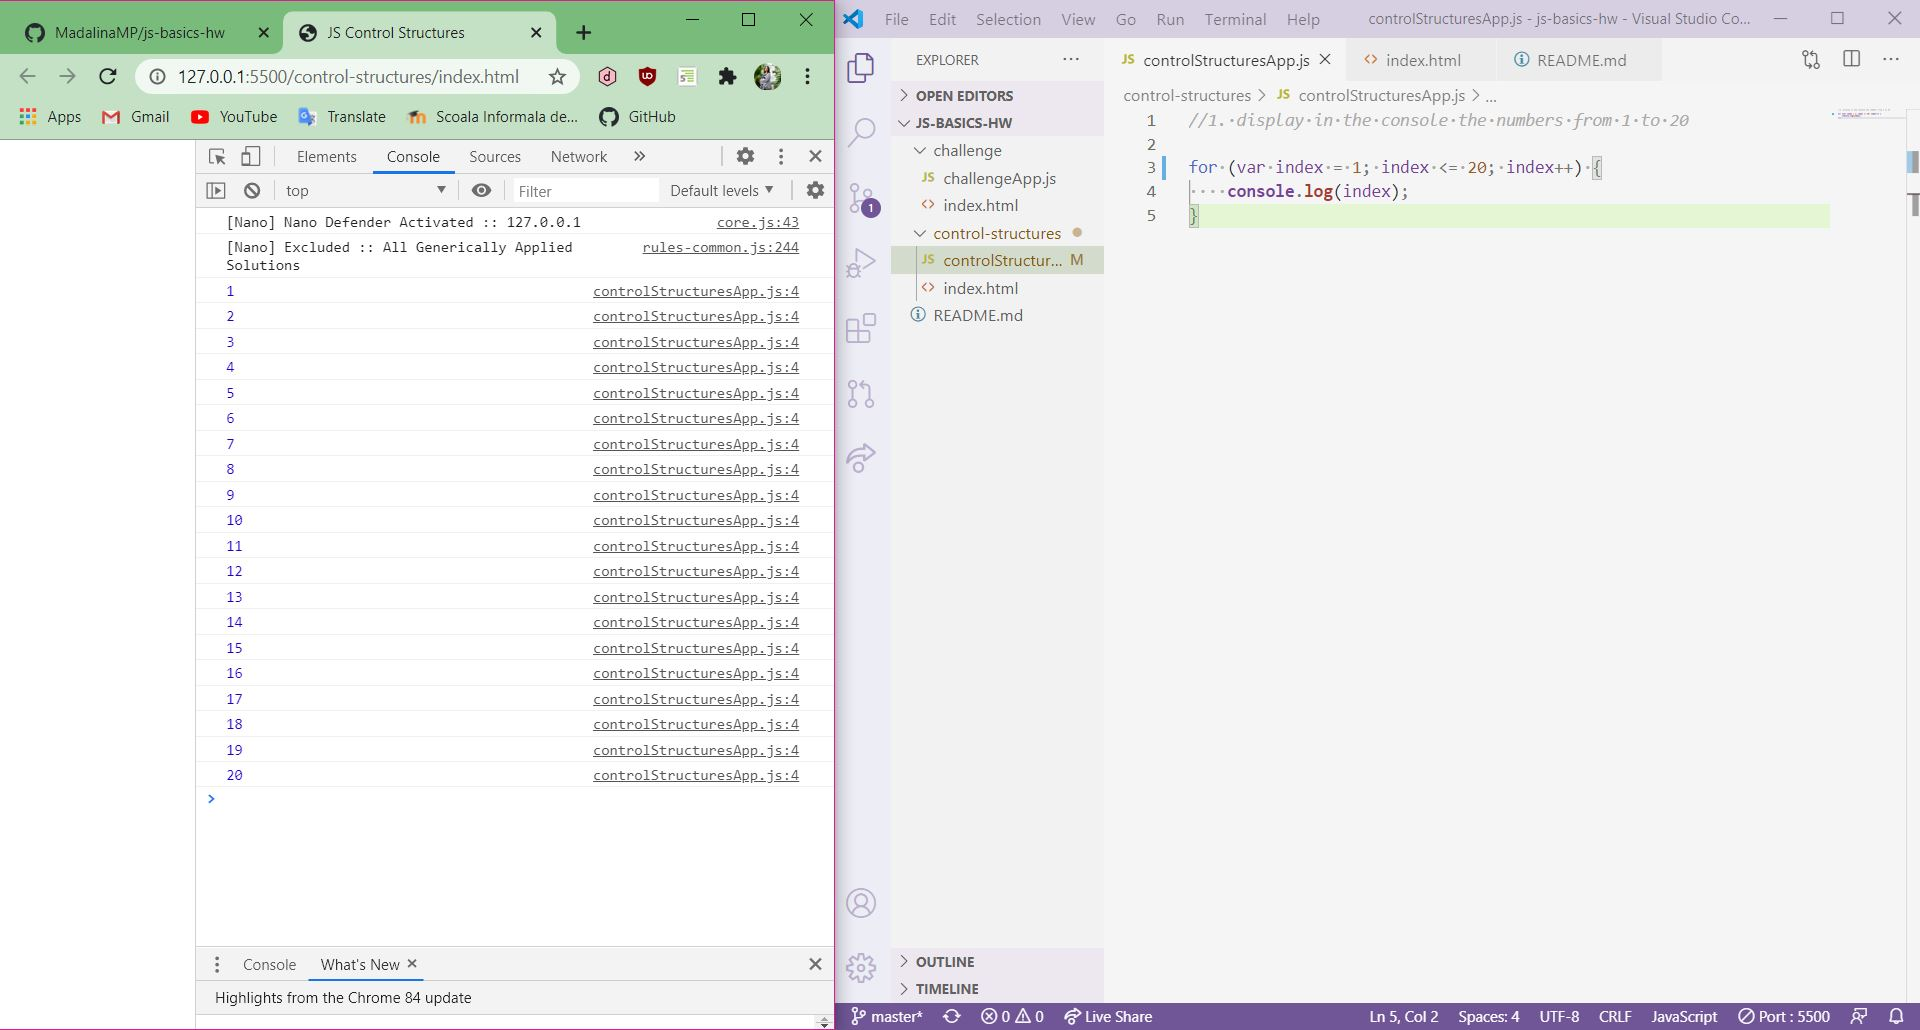
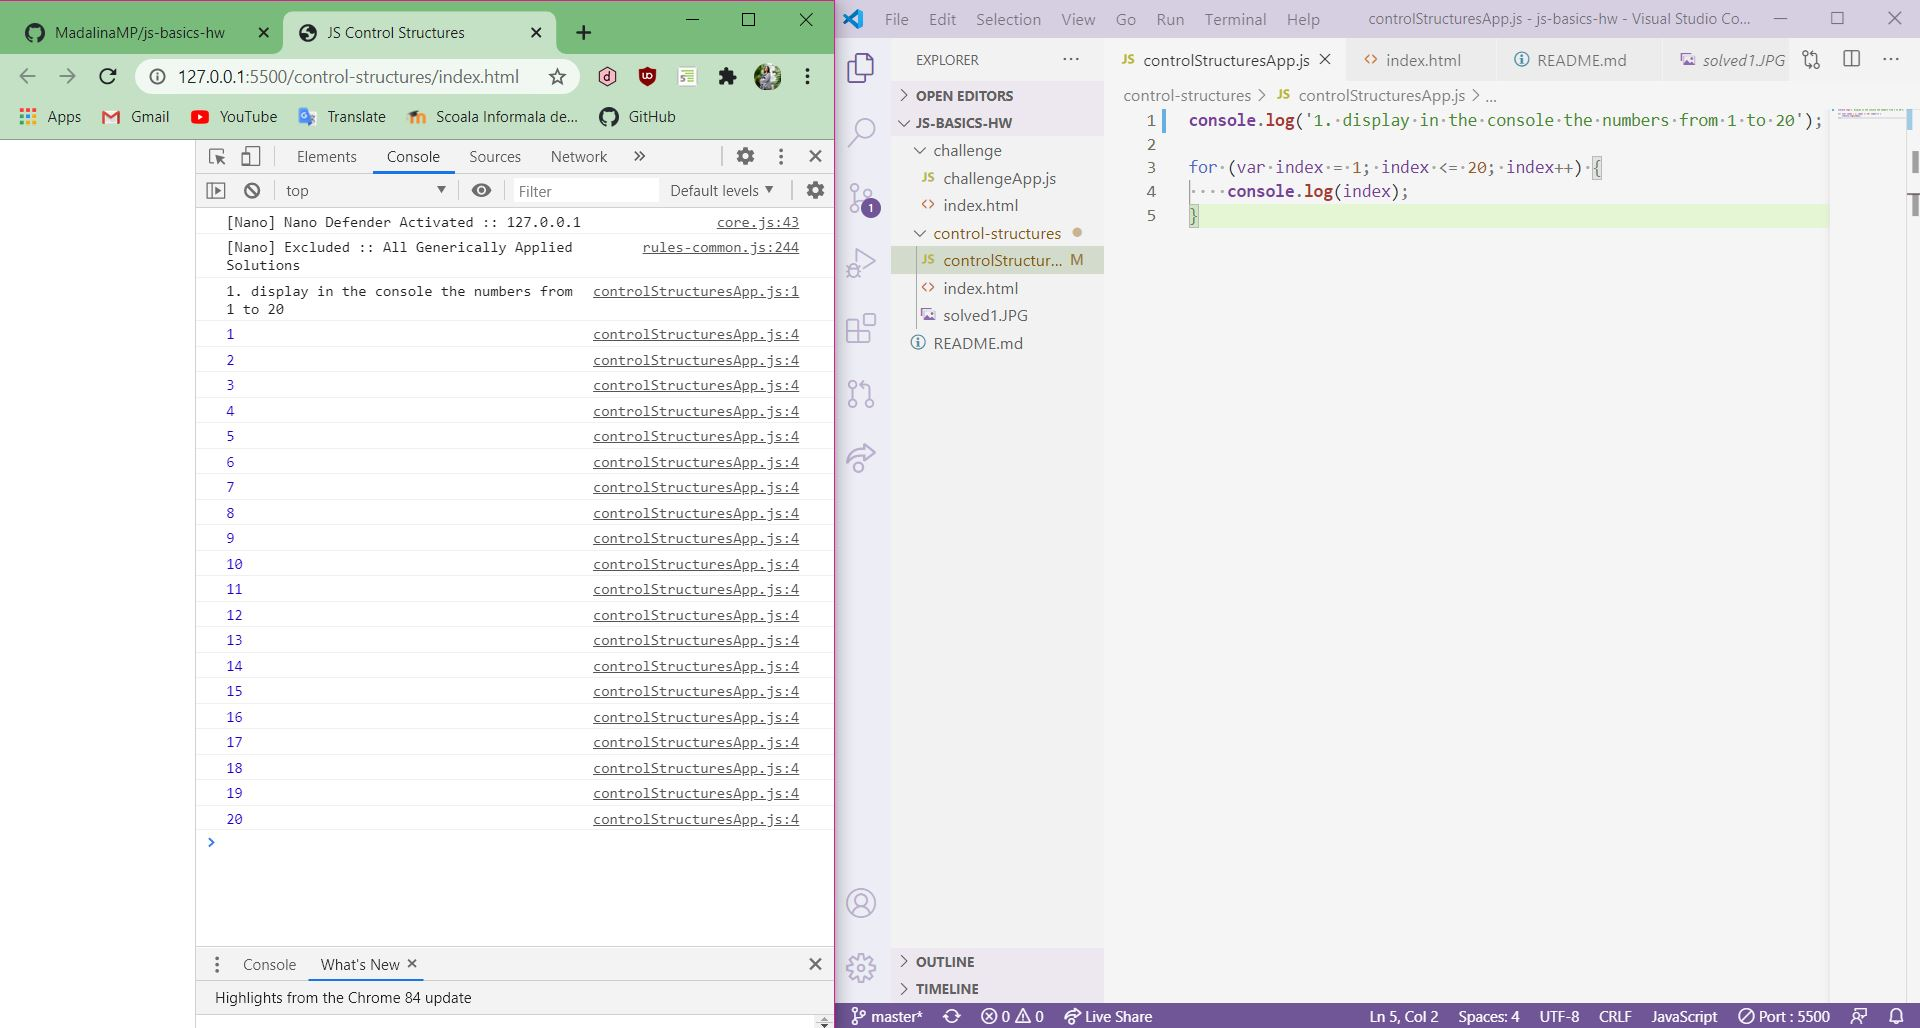
solved 1

diff --git a/control-structures/controlStructuresApp.js b/control-structures/controlStructuresApp.js
@@ -1,4 +1,4 @@
-//1. display in the console the numbers from 1 to 20
+console.log('1. display in the console the numbers from 1 to 20');
 
 for (var index = 1; index <= 20; index++) {
     console.log(index);
